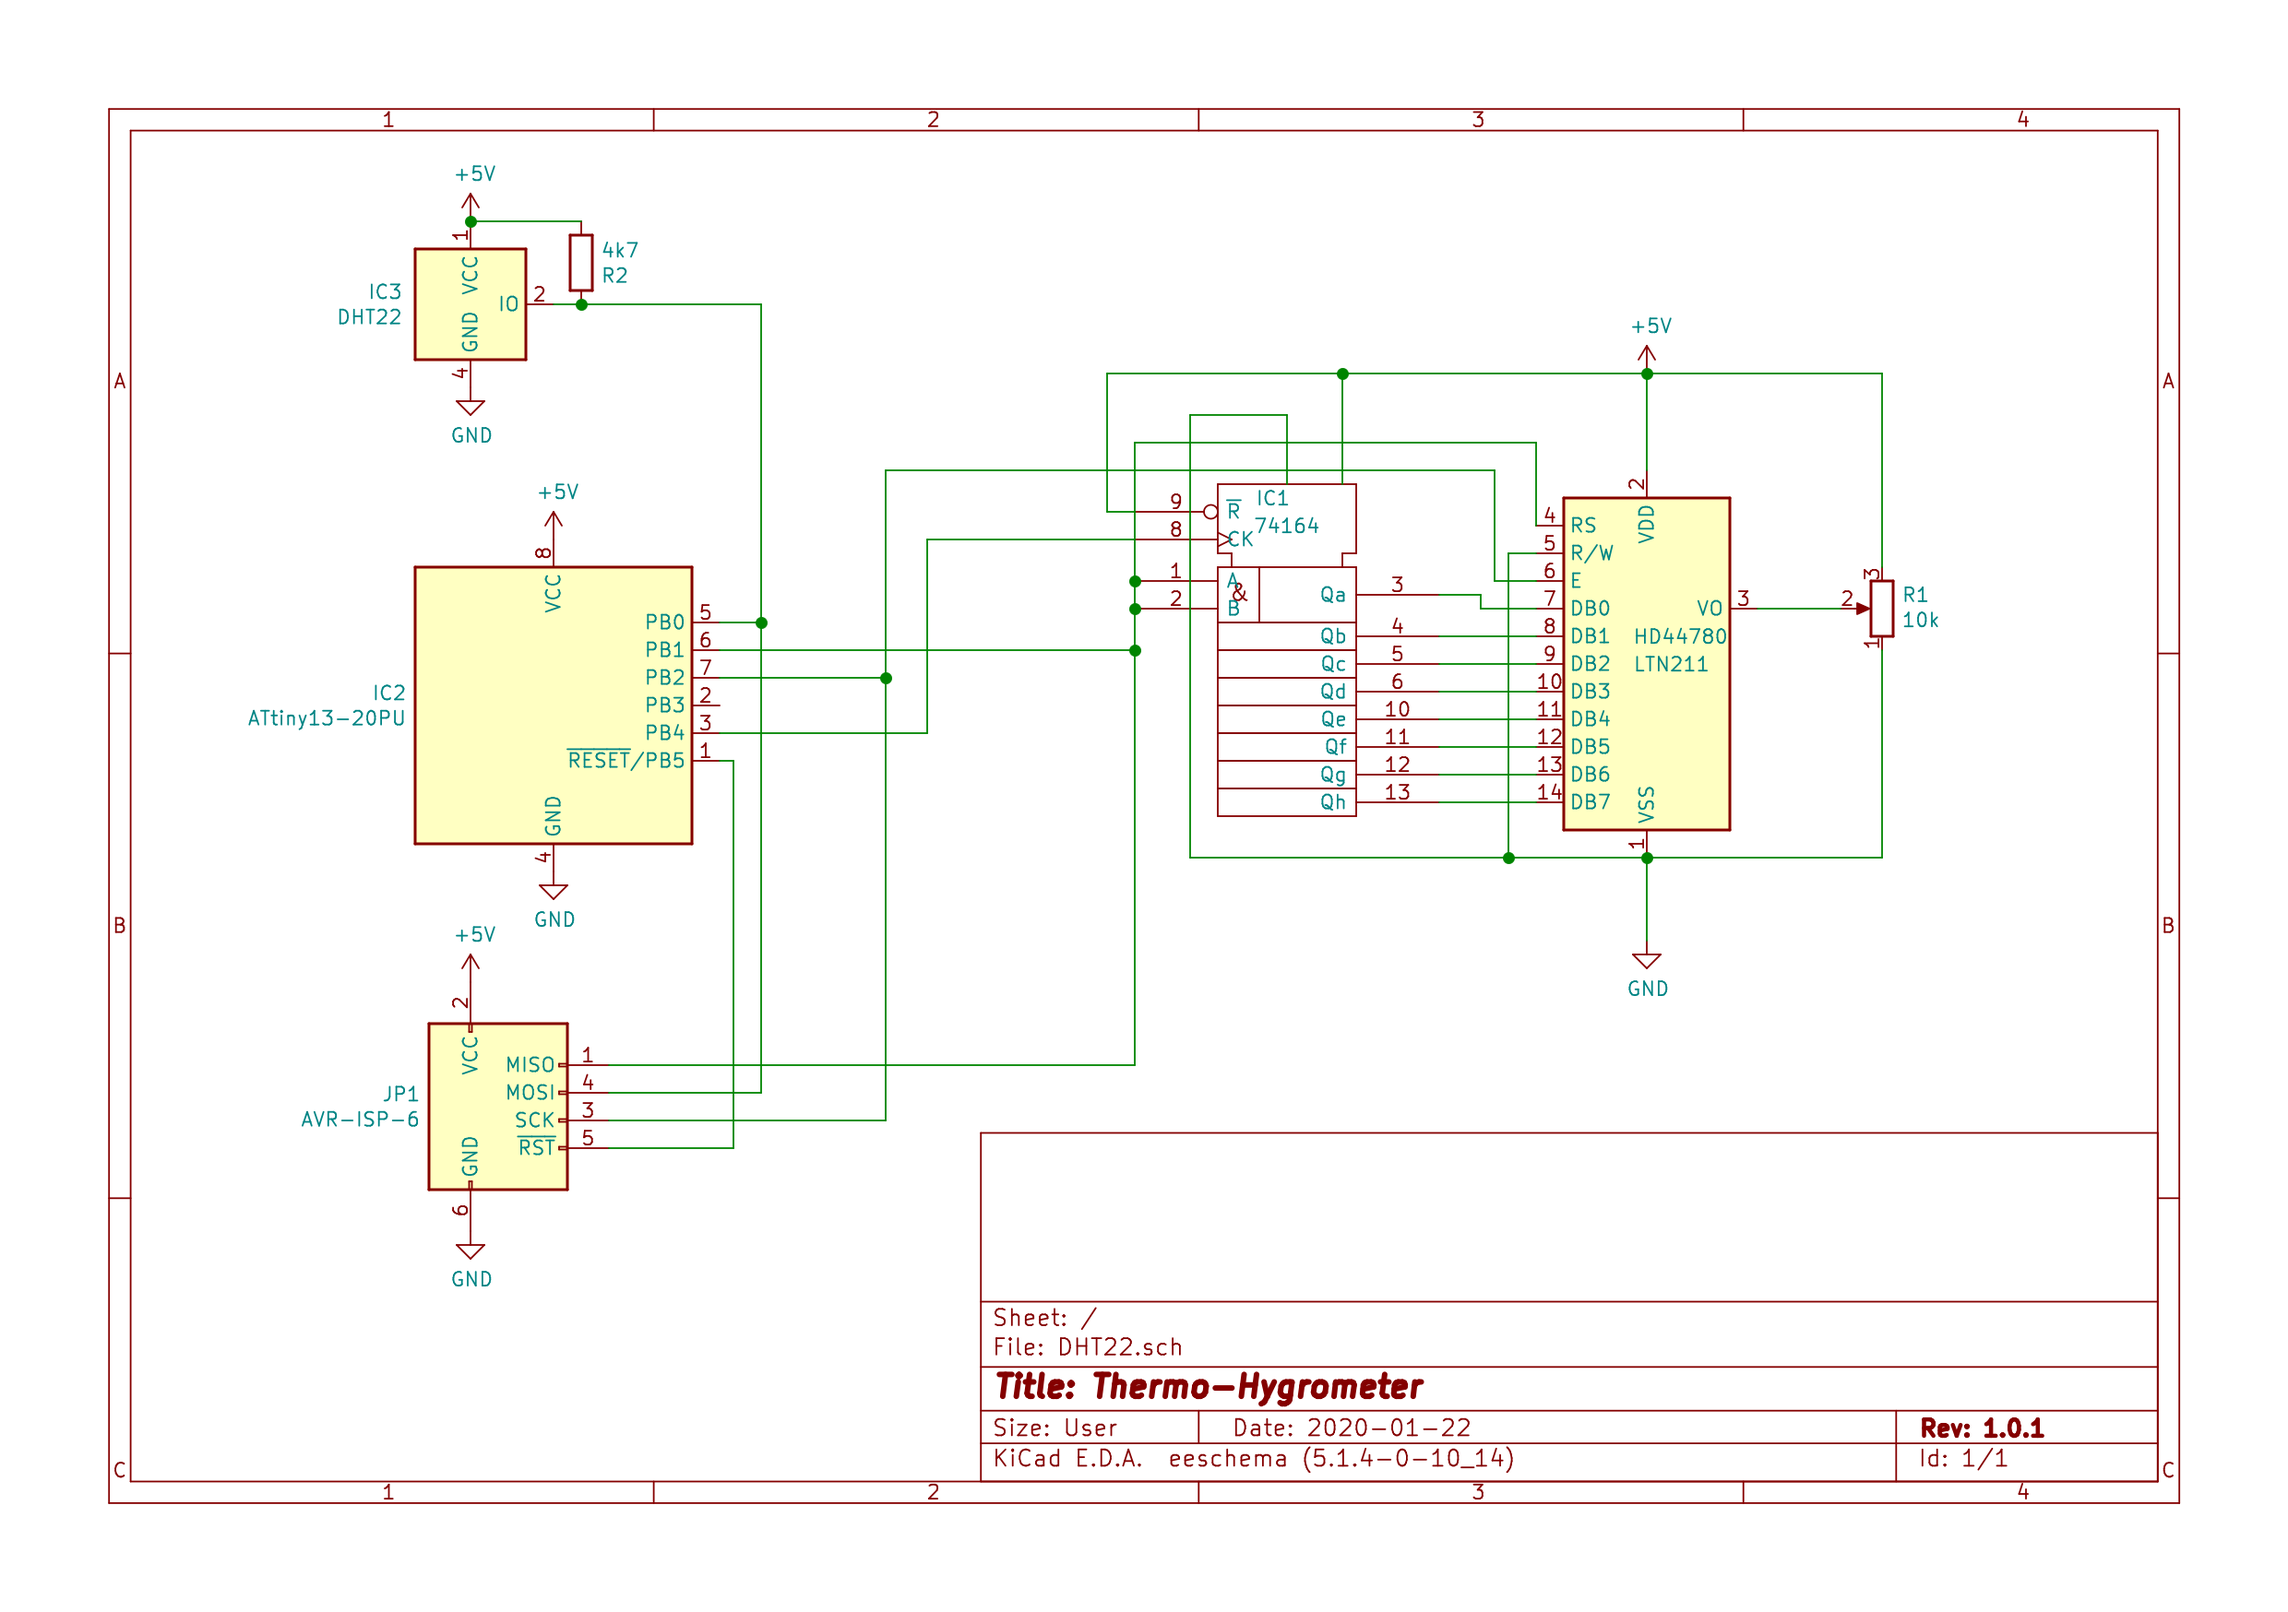
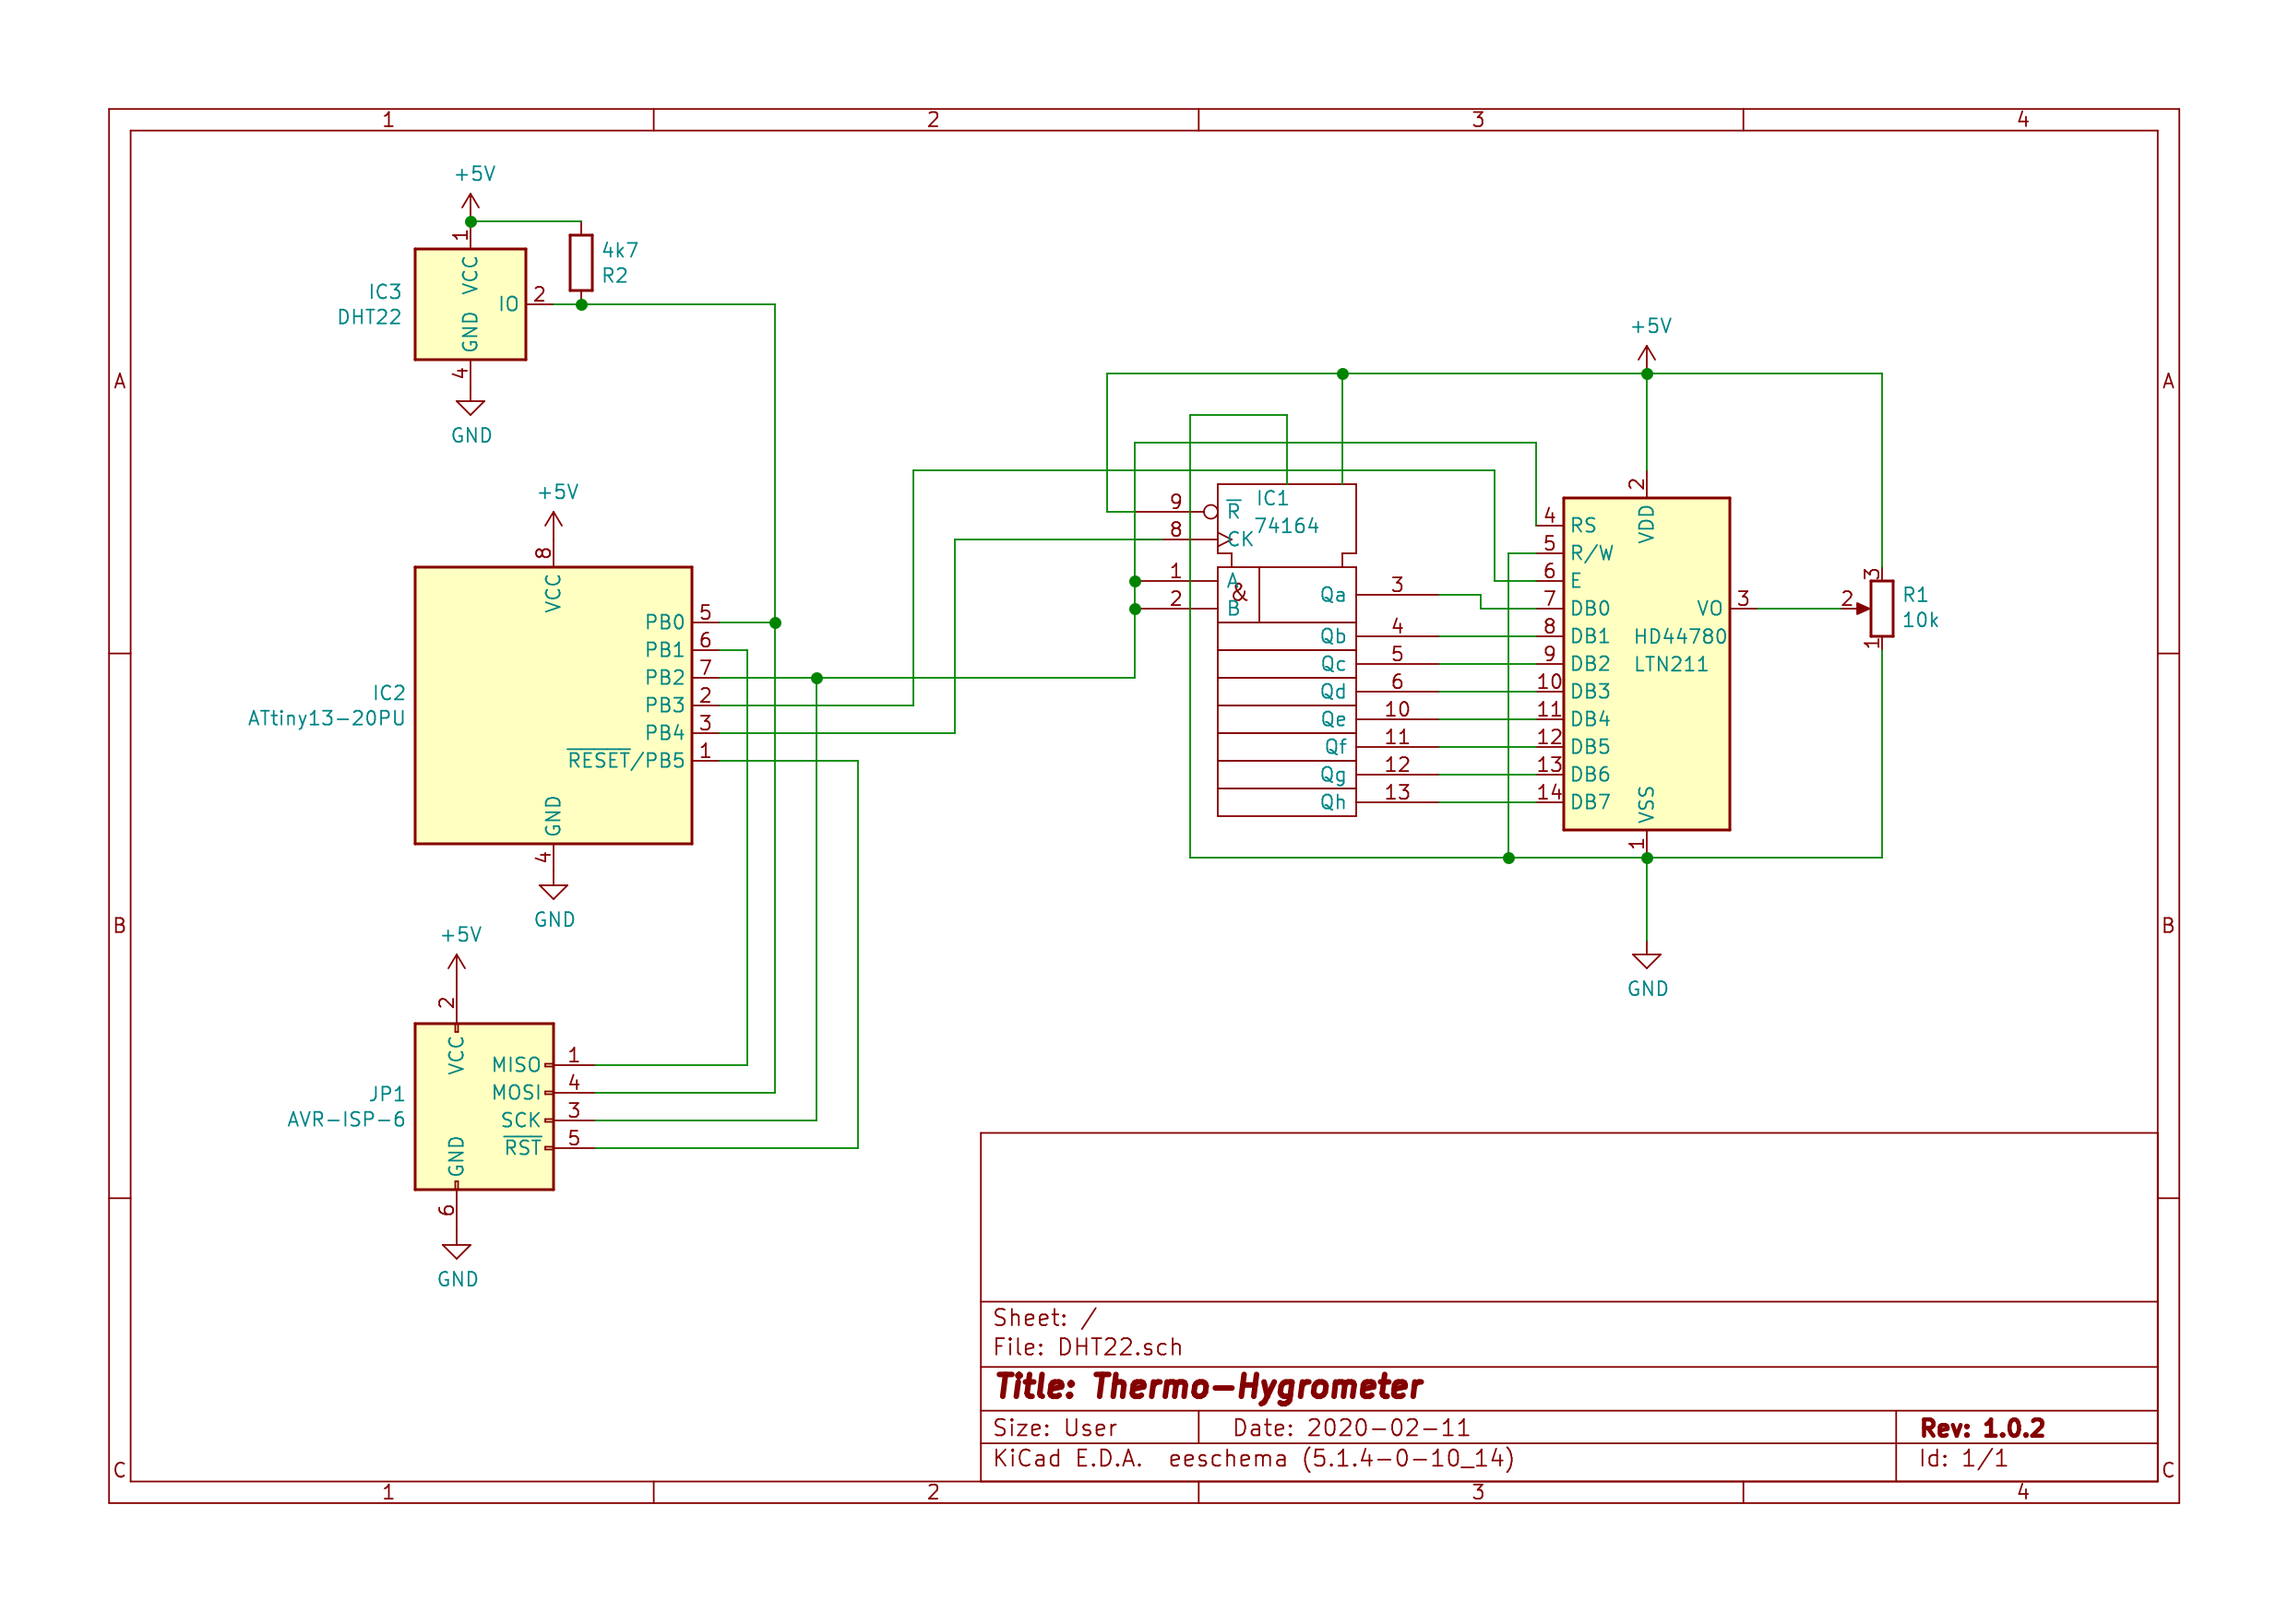
v1.0.3

diff --git a/README.md b/README.md
@@ -4,7 +4,9 @@ Thermo-Hygrometer based on DHT22, ATtiny13 and HD44780 kompatible display
  ![LCD](https://github.com/rlnd-ldwg/thermo-hygrometer/raw/master/LCD.png)
  ![Circuit](https://github.com/rlnd-ldwg/thermo-hygrometer/raw/master/circuit.png)
 
-v 1.0.2 added sleep mode and watchdog wake up
+v 1.0.3 wrong indication of negative temperature corrected,
+pinout change for better use of IPS header for enhancements,
+adaptations for the 16x1 display which uses addresses from a 2-line display
 
 To assemble the code, adjust the Makefile to your needs. You have then the following options:
 
